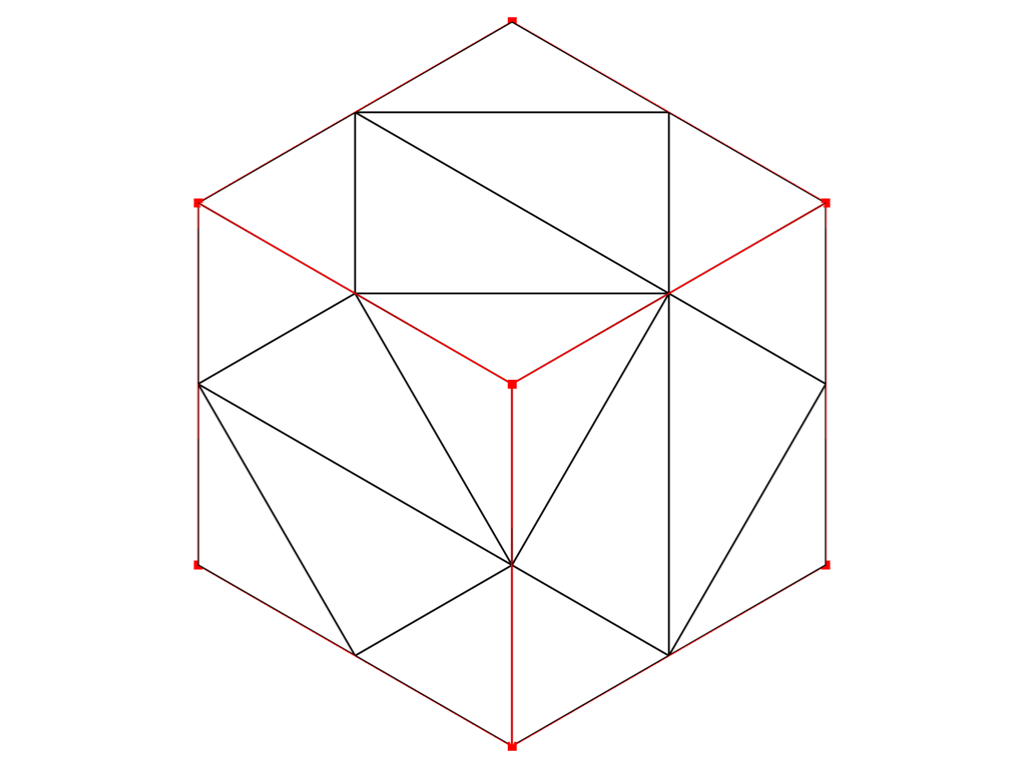
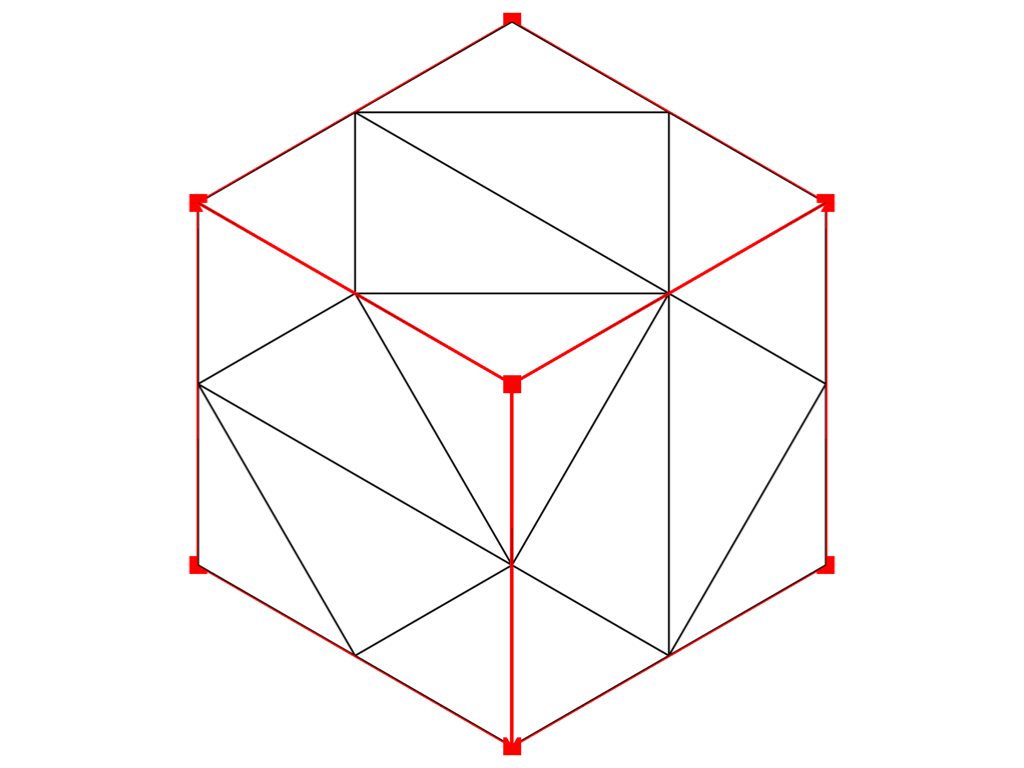
Fix the line width of the edge source geometry (#69)

diff --git a/src/pvgmsh/__init__.py b/src/pvgmsh/__init__.py
@@ -64,8 +64,8 @@ def frontal_delaunay_2d(
 
     >>> plotter = pv.Plotter(off_screen=True)
     >>> _ = plotter.add_mesh(mesh, show_edges=True, line_width=2, color="white", lighting=False)
-    >>> _ = plotter.add_mesh(edge_source, show_edges=True, line_width=2, color="red")
-    >>> _ = plotter.add_points(edge_source.points, style="points", point_size=10, color="red")
+    >>> _ = plotter.add_mesh(edge_source, show_edges=True, line_width=4, color="red")
+    >>> _ = plotter.add_points(edge_source.points, style="points", point_size=20, color="red")
     >>> plotter.show(cpos="xy", screenshot="frontal_delaunay_2d_01.png")
     """
     points = edge_source.points
@@ -144,8 +144,8 @@ def delaunay_3d(
 
     >>> plotter = pv.Plotter(off_screen=True)
     >>> _ = plotter.add_mesh(mesh, show_edges=True, line_width=4, color="white", lighting=False)
-    >>> _ = plotter.add_mesh(edge_source.extract_all_edges(), line_width=4, color="red")
-    >>> _ = plotter.add_points(edge_source.points, style="points", point_size=20, color="red")
+    >>> _ = plotter.add_mesh(edge_source.extract_all_edges(), line_width=8, color="red")
+    >>> _ = plotter.add_points(edge_source.points, style="points", point_size=40, color="red")
     >>> plotter.enable_anti_aliasing()
     >>> plotter.enable_parallel_projection()
     >>> plotter.show(screenshot="delaunay_3d_01.png")
